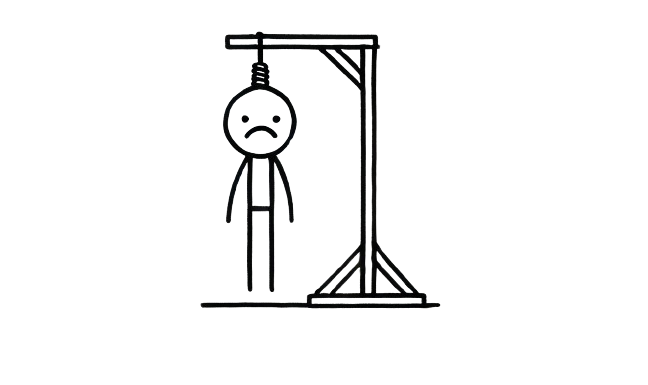
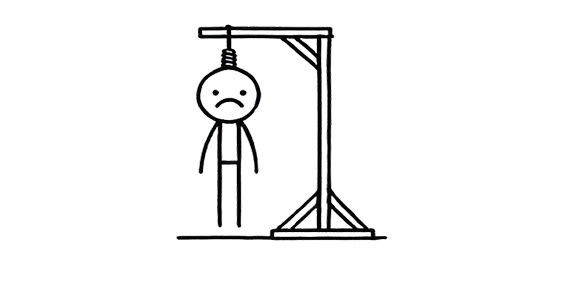
UI수정

diff --git a/hangman.py b/hangman.py
@@ -20,16 +20,19 @@ BLUE = (0,0,255)
 LIGHT_BLUE = (224,224,224)
 
 btn_font = pygame.font.SysFont("arial", 20)
-guess_font = pygame.font.SysFont("monospace", 24)
+guess_font = pygame.font.SysFont("monospace", 24, bold=True)
 lost_font = pygame.font.SysFont('arial', 20)
 title_font = pygame.font.SysFont('arial', 60)
 word = ''
 buttons = []
 guessed = []
 level = "easy"
-hangmanPics = [pygame.image.load('hangman0.png'), pygame.image.load('hangman1.png'), pygame.image.load('hangman2.png'), pygame.image.load('hangman3.png'), pygame.image.load('hangman4.png'), pygame.image.load('hangman5.png'), pygame.image.load('hangman6.png')]
+hangmanPics = [pygame.image.load('m_hangman0.png'), pygame.image.load('m_hangman1.png'), pygame.image.load('m_hangman2.png'), pygame.image.load('m_hangman3.png'), pygame.image.load('m_hangman4.png'), pygame.image.load('m_hangman5.png')]
 
-limbs = 1
+
+
+
+limbs = 0
 max_limbs = 5
 
 hint_button = {'color': LIGHT_BLUE, 'x' : winWidth - 100, 'y' : winHeight - 70, 'width' : 80, 'height' : 40, 'text' : 'HINT'}
@@ -59,16 +62,28 @@ def redraw_game_window():
     
     ######이유진####################
     ##글자 및 목숨 이미지 위치 수정 ##
+    ################################
+
     if level == "easy":
         pic = hangmanPics[limbs]
-        win.blit(pic, (165, 365))
+        win.blit(pic, (75, 125))
     else:
-        pic = hangmanPics[limbs +2]
-        win.blit(pic, (235, 365))
+        if limbs == 0:
+            pic_index = 0 
+        elif limbs == 1:
+            pic_index = 2
+        elif limbs == 2:
+            pic_index = 3
+        else:
+            pic_index = 5
+        
+        pic = hangmanPics[pic_index]
+        win.blit(pic, (75, 125))
 
-
+    
     word_x = (winWidth - length) // 2
-    win.blit(label1,(word_x, 200))
+    win.blit(label1,(word_x, 415))
+
     
     pygame.draw.rect(win, hint_button['color'],
                      (hint_button['x'], hint_button['y'], hint_button['width'], hint_button['height']))
@@ -94,13 +109,13 @@ def randomWord():
     ###################################################
     if level == 'hard':
         file = open('words_hard.txt')
-        max_limbs = 3
+        max_limbs = 2
     else:
         file = open('words_7.txt')
         if level == "normal":
-            max_limbs = 3
+            max_limbs = 2
         else:
-            max_limbs = 5
+            max_limbs = 4
         
     f = file.readlines()
     i = random.randrange(0, len(f) - 1)
@@ -186,10 +201,10 @@ def reset():
     for i in range(len(buttons)):
         buttons[i][4] = True
 
-    limbs = 1
+    limbs = 0
     guessed = []
     word = randomWord()
-    max_limbs = 5 
+    max_limbs = 5
 
 ##########################
 ## 김미리
@@ -317,9 +332,10 @@ while inPlay:
                 guessed.append(chr(letter))
                 buttons[letter - 65][4] = False
                 if hang(chr(letter)):
-                    if limbs != max_limbs:
+                    if limbs < max_limbs:
                         limbs += 1
                     else:
+                        limbs += 1
                         end()
                 else:
                     print(spacedOut(word, guessed))
